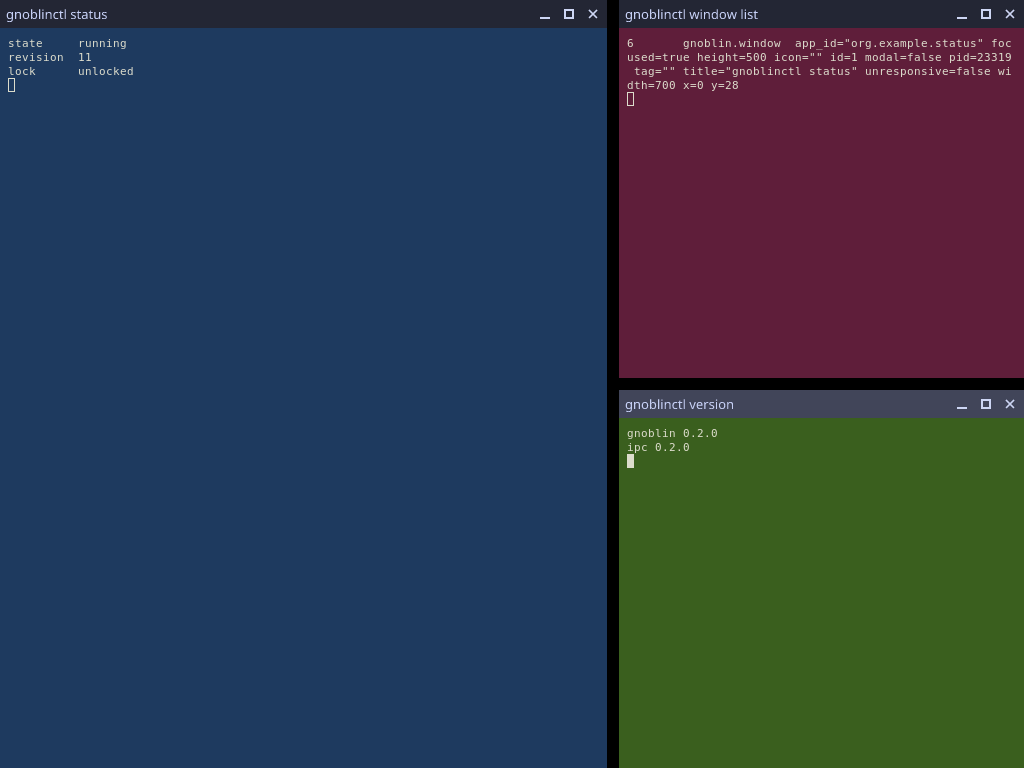
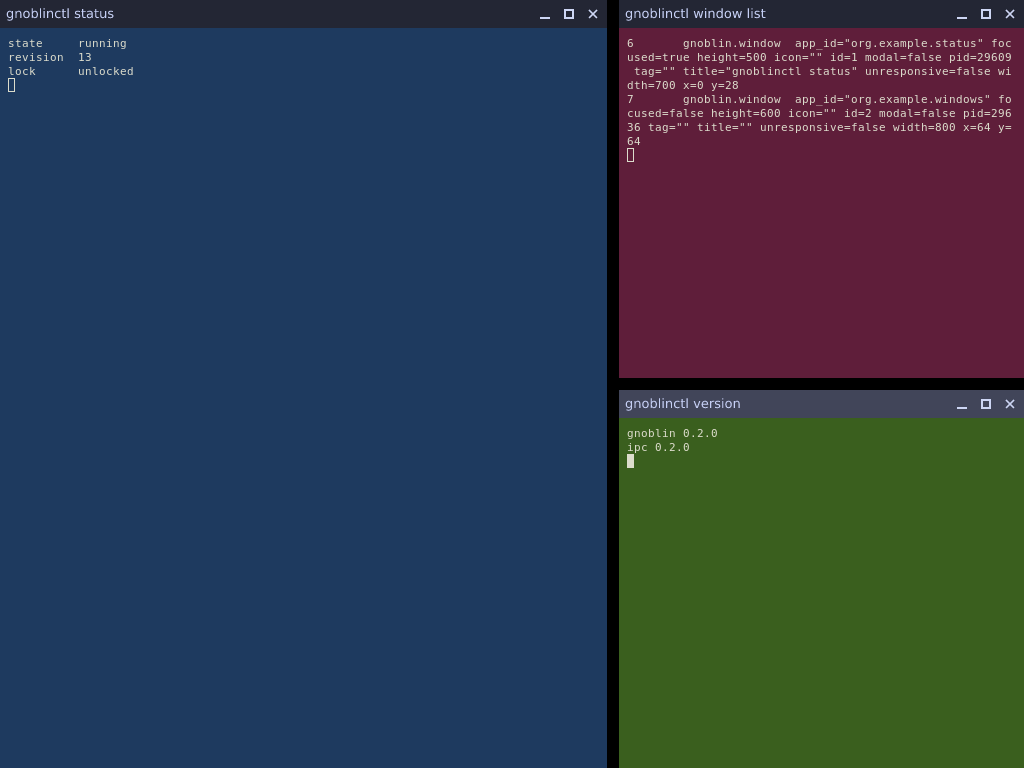
test(live): re-verify the shell on pixels; reload-tiled and transition-mid scenarios; the window-geometry height loss asserted and diagnosed
Fresh docs/images/js-shell pictures from the current tree.

diff --git a/crates/gnoblin/tests/support/mod.rs b/crates/gnoblin/tests/support/mod.rs
@@ -403,6 +403,9 @@ pub struct Mapper {
     /// Whether the windows ask for server-side decorations (`xdg-decoration`) before they first commit, as a GTK or
     /// Qt client that wants the shell's title bar does. A client that does not is one that draws its own.
     server_side: bool,
+    /// The window geometry (`xdg_surface.set_window_geometry`: x, y, width, height in surface coordinates) every window
+    /// sets before its first buffer, as a client that draws a title bar outside its main surface does.
+    geometry: Option<(i32, i32, i32, i32)>,
     seat: Option<wl_seat::WlSeat>,
     /// The protocol objects of every window mapped, kept so they stay mapped.
     windows: Vec<(
@@ -439,6 +442,7 @@ impl Mapper {
             seat: None,
             windows: Vec::new(),
             server_side: false,
+            geometry: None,
             decorations: Vec::new(),
         }
     }
@@ -449,6 +453,14 @@ impl Mapper {
     #[must_use]
     pub fn requesting_server_side(mut self) -> Self {
         self.server_side = true;
+        self
+    }
+
+    /// Makes every window this client maps from now on set the window geometry `(x, y, width, height)` before its first
+    /// buffer, the way foot does with its title bar above the main surface (`(0, -26, 700, 500)` for a 700 by 474 buffer).
+    #[must_use]
+    pub fn with_window_geometry(mut self, geometry: (i32, i32, i32, i32)) -> Self {
+        self.geometry = Some(geometry);
         self
     }
 
@@ -499,6 +511,9 @@ impl Mapper {
         let buffer = pool.create_buffer(0, width, height, stride, wl_shm::Format::Argb8888, &self.qh, ());
         surface.attach(Some(&buffer), 0, 0);
         surface.damage(0, 0, width, height);
+        if let Some((x, y, geometry_width, geometry_height)) = self.geometry {
+            xdg.set_window_geometry(x, y, geometry_width, geometry_height);
+        }
         surface.commit();
         self.roundtrip();
         self.windows.push((surface, xdg, toplevel));

diff --git a/crates/gnoblin/tests/js_shell.rs b/crates/gnoblin/tests/js_shell.rs
@@ -1744,6 +1744,30 @@ fn windows_too_big_for_a_free_spot_cascade_and_never_land_exactly_on_each_other(
     }
 }
 
+/// Live verification: foot draws its title bar in a subsurface above its main surface and says so with a window geometry
+/// of (0, -26, 700, 500) around a 700 by 474 buffer. The window is the geometry, 700 by 500. The tree publishes the
+/// surface's rectangle instead (`publish_geometry` in `compose.rs`: the geometry less its offset, at the buffer's size), 700
+/// by 474; a first run of the shipped binary with the stock bar held such a window at 700 by 448. Run it with `--ignored`.
+#[test]
+#[ignore = "open defect (design/js-runtime.md, Live verification, #4): the tree publishes the buffer size, 700 by 474, not the window geometry"]
+fn a_client_side_decorated_window_is_held_at_its_window_geometry_not_its_buffer_less_its_bar() {
+    let session = Session::start();
+    let config = tempfile::tempdir().expect("a config directory");
+    let shell = Shell::start(&session, config.path(), |_| {});
+    let mut mapper = Mapper::connect(&session.wayland()).with_window_geometry((0, -26, 700, 500));
+    let ipc = session.ipc();
+    mapper.map_window_sized("org.example.csd", "Client drawn bar", 700, 474);
+    wait_for("the window placed", &session, &mut mapper, &shell, || {
+        rect_of(&ipc, "org.example.csd").is_some_and(|(_, _, width, _)| width > 0.0)
+    });
+    let (_, _, width, height) = rect_of(&ipc, "org.example.csd").expect("the window");
+    assert_eq!(
+        (width, height),
+        (700.0, 500.0),
+        "the window is its geometry, the bar included"
+    );
+}
+
 /// An `init.ts` whose workspace tiles by halves side by side and, one second after the shell's clock starts, changes to
 /// rows inside a `requestTransition` of 500 ms. `probe()` says what the script knows: the shell's clock, whether the
 /// transition runs, and the log of its start and finish.

diff --git a/design/js-runtime.md b/design/js-runtime.md
@@ -1761,7 +1761,8 @@ Each scenario boots its own session over a fresh directory, so one can be run al
 | `master-stack`, `dwindle`                     | three windows, then a reload to the owner's `defineConfig` (no `decorations` key)         |
 | `master-stack-decorated`, `dwindle-decorated` | the same with `decorations: true`                                                         |
 | `shadows-software`, `shadows-gles`            | `style.shadows` on each renderer (the renderer is read at start, so the session restarts) |
-| `csd-double`, `csd-own`, `csd-tiled`          | foot as it comes: the shell's one bar; with decorations off, foot's own one bar           |
+| `csd-double`, `csd-own`, `csd-tiled`          | foot as it comes: the shell's one bar; with decorations off, foot's own bar (off screen)  |
+| `reload-tiled`, `transition-mid`              | a reload of three tiled windows (before and after compared); a frame mid-transition       |
 | `window-menu`                                 | the window menu, opened with `Alt+Space` sent by `wtype`                                  |
 | `lock`                                        | `gnoblinctl lock`, then a capture, which is refused                                       |
 
@@ -1791,15 +1792,15 @@ four that are clean product states and are in `docs/typescript-shell.md`, "What 
 
 ### Defects
 
-| #   | Picture                           | Diagnosis                                                                                                                                                                                                                                                                                                                                                                                                                                                                                                             | State                                                                                                                                                                                                                                                                                                                                             |
-| --- | --------------------------------- | --------------------------------------------------------------------------------------------------------------------------------------------------------------------------------------------------------------------------------------------------------------------------------------------------------------------------------------------------------------------------------------------------------------------------------------------------------------------------------------------------------------------- | ------------------------------------------------------------------------------------------------------------------------------------------------------------------------------------------------------------------------------------------------------------------------------------------------------------------------------------------------- |
-| 1   | `master-stack.png`                | A black column at x = 1023: `tile()` floored each width on its own, so a master of 607.2 and a stack of 404.8 at 619.2 ended at 619 + 404 = 1023. Every tiled layout had it (grid with 3 columns on 1000 px ended at 999; the Lua shell had the same).                                                                                                                                                                                                                                                                | Fixed in `data/js/gnoblin/layout.ts` (`tile` floors edges). Tests: `stock_layouts.rs`, real: `a_master_stack_workspace_with_a_ratio_and_a_gap_fills_the_screen_to_both_edges`. The Lua goldens that pinned the sliver are changed.                                                                                                                |
-| 2   | `cascade.png` (before the fix)    | Three windows of the default size: the second and the third landed at exactly (324, 268). `placeRect` pushes a cascade that found no free spot back inside the area, pinning every later window to the far corner, so the third hid the second.                                                                                                                                                                                                                                                                       | Fixed in `FloatingLayout.onClientAdded` (`apartFrom` steps back by the cascade step). `placeRect` and its golden table are unchanged. Tests: `stock_layouts.rs`, real: `windows_too_big_for_a_free_spot_cascade_and_never_land_exactly_on_each_other`.                                                                                            |
-| 3   | `master-stack.png`, `dwindle.png` | The owner's `defineConfig({ workspaces })` draws no titlebars. `docs/typescript-config.md` says so in its table (`decorations` is "not layered") and contradicts itself two paragraphs above ("A key you leave out keeps its default"). With foot as the client, foot then draws its own title bar, which is outside its window and off screen for the top row.                                                                                                                                                       | Open, by design, owner's call: should `decorations` default to `true` for a config that leaves it out? The doc and the screenshots in `docs/` say what is.                                                                                                                                                                                        |
-| 4   | `csd-double.png`, `csd-tiled.png` | The compositor answers every `xdg-decoration` with client side, so a client that draws a title bar (foot, GTK) has two. Foot's own is hidden under the shell's. Foot reports its window geometry as (0, -26, 700, 500) with a 700 by 474 buffer, and the compositor holds the window as 700 by 448 (500 less 26 twice); in one exploratory capture of three tiled windows the first (foot told 740, drawing 714) left a 26 px black strip below it; `csd-tiled` (one window) does not show it. Not diagnosed further. | Open. Not asserted: `Mapper` has no window geometry. Starting point: `follow_window_geometry` in `crates/gnoblin-wayland/src/state.rs` and the surface offset in `compose.rs`.                                                                                                                                                                    |
-| 5   | `shadows-gles.png`                | The shadow is the window node's, so it is cast by the content and not by the frame: it has nothing at the titlebar's side. The shadow effect has no rectangle of its own to grow.                                                                                                                                                                                                                                                                                                                                     | Open. Needs the effect to take an extent, in the compositor.                                                                                                                                                                                                                                                                                      |
-| 6   | `master-stack.log`                | A reload logged 19 `a seat claim's chord is already bound for that device` and one `a seat gesture claim was refused` at WARN. The new generation claimed each stock key while the old one still held it, so the compositor refused the duplicate, and the old generation's release then freed the chord: after the reload nobody held it and the key did nothing.                                                                                                                                                    | Fixed (lane JsReloadClaims). A staged generation's claims wait for the swap and go out behind the old generation's releases, in one transaction ("Hot reload", "Seat claims across a reload"). Tests: `crates/gnoblin-js/tests/input.rs`, real: `a_reload_hands_every_seat_claim_over_so_each_shortcut_fires_once_and_a_removed_one_is_released`. |
-| 7   | every `.log`                      | The guardian wrapped each INFO line a child prints on stderr as `WARN guardian/raw INFO ...`, so a healthy start was a page of warnings: `is_structured` looked for the bracketed form `INFO  [role] ...`, and the console prints `INFO   role/component  message`.                                                                                                                                                                                                                                                   | Fixed (lane JsReloadClaims) in `crates/gnoblin-session/src/raw.rs`: a line the child formatted itself is passed on with its own level. Tests in the same file.                                                                                                                                                                                    |
+| #   | Picture                           | Diagnosis                                                                                                                                                                                                                                                                                                                                                          | State                                                                                                                                                                                                                                                                                                                                             |
+| --- | --------------------------------- | ------------------------------------------------------------------------------------------------------------------------------------------------------------------------------------------------------------------------------------------------------------------------------------------------------------------------------------------------------------------ | ------------------------------------------------------------------------------------------------------------------------------------------------------------------------------------------------------------------------------------------------------------------------------------------------------------------------------------------------- |
+| 1   | `master-stack.png`                | A black column at x = 1023: `tile()` floored each width on its own, so a master of 607.2 and a stack of 404.8 at 619.2 ended at 619 + 404 = 1023. Every tiled layout had it (grid with 3 columns on 1000 px ended at 999; the Lua shell had the same).                                                                                                             | Fixed in `data/js/gnoblin/layout.ts` (`tile` floors edges). Tests: `stock_layouts.rs`, real: `a_master_stack_workspace_with_a_ratio_and_a_gap_fills_the_screen_to_both_edges`. The Lua goldens that pinned the sliver are changed.                                                                                                                |
+| 2   | `cascade.png` (before the fix)    | Three windows of the default size: the second and the third landed at exactly (324, 268). `placeRect` pushes a cascade that found no free spot back inside the area, pinning every later window to the far corner, so the third hid the second.                                                                                                                    | Fixed in `FloatingLayout.onClientAdded` (`apartFrom` steps back by the cascade step). `placeRect` and its golden table are unchanged. Tests: `stock_layouts.rs`, real: `windows_too_big_for_a_free_spot_cascade_and_never_land_exactly_on_each_other`.                                                                                            |
+| 3   | `master-stack.png`, `dwindle.png` | The owner's `defineConfig({ workspaces })` draws no titlebars. `docs/typescript-config.md` says so in its table (`decorations` is "not layered") and contradicts itself two paragraphs above ("A key you leave out keeps its default"). With foot as the client, foot then draws its own title bar, which is outside its window and off screen for the top row.    | Open, by design, owner's call: should `decorations` default to `true` for a config that leaves it out? The doc and the screenshots in `docs/` say what is.                                                                                                                                                                                        |
+| 4   | `csd-own.png`                     | Double bars are fixed (below). What is left is the window geometry of a client that draws its bar above its main surface: see "The 52 px, diagnosed".                                                                                                                                                                                                              | Open: the compositor's window node must be the geometry. Test ignored until then.                                                                                                                                                                                                                                                                 |
+| 5   | `shadows-gles.png`                | The shadow is the window node's, so it is cast by the content and not by the frame: it has nothing at the titlebar's side. The shadow effect has no rectangle of its own to grow.                                                                                                                                                                                  | Open. Needs the effect to take an extent, in the compositor.                                                                                                                                                                                                                                                                                      |
+| 6   | `master-stack.log`                | A reload logged 19 `a seat claim's chord is already bound for that device` and one `a seat gesture claim was refused` at WARN. The new generation claimed each stock key while the old one still held it, so the compositor refused the duplicate, and the old generation's release then freed the chord: after the reload nobody held it and the key did nothing. | Fixed (lane JsReloadClaims). A staged generation's claims wait for the swap and go out behind the old generation's releases, in one transaction ("Hot reload", "Seat claims across a reload"). Tests: `crates/gnoblin-js/tests/input.rs`, real: `a_reload_hands_every_seat_claim_over_so_each_shortcut_fires_once_and_a_removed_one_is_released`. |
+| 7   | every `.log`                      | The guardian wrapped each INFO line a child prints on stderr as `WARN guardian/raw INFO ...`, so a healthy start was a page of warnings: `is_structured` looked for the bracketed form `INFO  [role] ...`, and the console prints `INFO   role/component  message`.                                                                                                | Fixed (lane JsReloadClaims) in `crates/gnoblin-session/src/raw.rs`: a line the child formatted itself is passed on with its own level. Tests in the same file.                                                                                                                                                                                    |
 
 **Defect 4 (double title bars) is fixed** (lane SsdNegotiation; `docs/js-ui.md`, "Who draws the frame"). The compositor now
 negotiates `xdg-decoration`: a client that asks for server-side is told so only while a shell that holds the tree has
@@ -1810,9 +1811,47 @@ mounts a `Titlebar`, and `frameInset` reserves room, only on a `server` window. 
 windows when the declaration changes. Proven by scene and protocol tests: `crates/gnoblin-wayland/tests/decoration.rs`
 (a real `xdg-decoration` client: no shell, shell without declaration, declared, client-side ask, no preference, no
 manager, decorations off and on, shell connection drop), `crates/gnoblin/tests/js_shell.rs` (a client that draws its own bar
-gets none, a reload toggling decorations) and `crates/gnoblin-js/tests/stock_ui.rs`. Not re-taken on pixels: the
-`csd-double` and `csd-own` scenarios of `scripts/js-shell-screenshots.sh` were updated but not run for this change, and
-the 52 px height loss of the foot window (the surface geometry offset, see the table) was not re-measured.
+gets none, a reload toggling decorations) and `crates/gnoblin-js/tests/stock_ui.rs`. It is re-taken on pixels below.
+
+### Re-verified on pixels (second run)
+
+The release binary of the tree at `origin/rust-compositor` after SsdNegotiation, the reload claim hand-off, the console
+global, tiling bindings, transitions, outputs and the idle fixes, on an Agent37 instance, every scenario of
+`scripts/js-shell-screenshots.sh` (pictures in `/home/kieran/dev/lanes/JsLiveVerify-shots/`, four in `docs/images/js-shell/`):
+
+- `one-window`, `csd-double`, `csd-tiled`: foot as it comes asks for server-side and gets exactly one bar, the shell's
+  (28 px, above the content). `csd-tiled` (decorations and a dwindle workspace) fills the screen under one bar.
+- `master-stack-decorated`, `dwindle-decorated`: one bar above each tile, 12 px gaps, edge to edge (the 1 px column of
+  defect 1 stays fixed). `cascade`: the third window no longer hides the second (defect 2 stays fixed).
+- `csd-own` (foot, `decorations: false`): **no bar is visible.** Foot draws its own, but its bar is a subsurface above its
+  main surface and the window sits at y = 0, so the bar is off screen, and the window is 448 high, not 500. That is the
+  height loss of defect 4's first run, still there: see below.
+- `reload-tiled`: three tiled windows before and after `gnoblinctl config reload` are byte-identical PNGs.
+- `transition-mid`: a `requestTransition` moving a window 600 px right over 6 s, captured 2 s in, shows the window at
+  x = 212 (linear: 200), and `transition-end` shows it at 600. The script catches the middle frame by a long duration on
+  the real clock; the injected clock is not reachable from a shipped session.
+- `window-menu`: as before, opened with `Alt+Space`. Not run: the `Super`+drag swap and the titlebar right click, because a
+  shipped session has no pointer injection (the EIS socket is shut until a remote desktop session is approved and no
+  virtual pointer is offered); both are proved in `crates/gnoblin/tests/js_shell.rs`.
+- `lock`: still refused (`failed to copy output HEADLESS-1`). The lock card cannot be read back on pixels from this tree:
+  `ControlHandle::screenshot` reads the frame while locked (`crates/gnoblin-wayland/tests/session_lock.rs` does), but the
+  card is drawn by the compositor crate's `LockCardService`, whose test `Session` runs `Compositor::run` and does not hand
+  out the control handle. A test would need that handle exposed; the card's colours are therefore unproven.
+
+### The 52 px, diagnosed (not yet fixed)
+
+A client that draws its bar in a subsurface above its main surface (foot: `set_window_geometry(0, -26, 700, 500)`, a 700 by
+474 buffer) has two rectangles, and the tree only knows one. `publish_geometry` (`crates/gnoblin-backend/src/render/compose.rs`)
+publishes the window node's `width` and `height` as the **buffer** size, 700 by 474, and the node's position is the main
+surface's origin. The shell writes a window's `width` and `height` back, and the compositor sends them as the
+`xdg_toplevel.configure` size, which is a **window geometry** size: 474 asked of foot gives a 448 buffer, with its 26 px bar
+inside the 474. Each round trip loses the bar's height, and a window placed at y = 0 has its bar at y = -26. Asserted from the
+scene by `a_client_side_decorated_window_is_held_at_its_window_geometry_not_its_buffer_less_its_bar` in
+`crates/gnoblin/tests/js_shell.rs` (a `Mapper` that sets `set_window_geometry`): it reads 700 by 474 where the geometry is 700
+by 500, and is `#[ignore]`d until the fix. The fix is in the compositor, not the shell: the window node must be the
+geometry (publish its size, and draw the surface at the node's origin less the geometry's offset when a shell places it, as
+`target()` already does when none does), which touches the render and the tree publish paths and their tests, and was not
+done in this run.
 
 ## Questions for the owner (the agent has a default for each)
 

diff --git a/CHANGELOG.md b/CHANGELOG.md
@@ -4,6 +4,7 @@
 
 ### Added
 
+- Live pictures re-taken on the current tree (lane JsLiveVerify; design/js-runtime.md, "Re-verified on pixels"). `scripts/js-shell-screenshots.sh` gains `reload-tiled` (the pictures before and after a reload of three tiled windows are compared byte for byte) and `transition-mid` (a frame in the middle of a `requestTransition`). The unexplained 52 px height loss of a window whose client draws its bar above its main surface is diagnosed: the tree publishes the buffer size, and the configure size is a window geometry size. A real-compositor test asserts it (`a_client_side_decorated_window_is_held_at_its_window_geometry_not_its_buffer_less_its_bar`, ignored until the fix; `Mapper::with_window_geometry` is its client). The pictures in `docs/images/js-shell/` are re-taken.
 - A `console` global in the JavaScript shell, and declarations that match the runtime (lane JsConsoleGlobal; design/js-runtime.md, "Console global status"; docs/typescript-shell.md, "Debugging"; docs/js-console.md). `console.log`, `info`, `warn`, `error`, `debug`, `assert` and `table` exist in every generation, format like Node (`%s %d %i %f %j %o %O %c %%`, JSON for objects with a `[Circular]` marker, errors with their stack) and write to the log (component `js`, area `script`) with the call site as `file.ts:line:col` in the author's `.ts` coordinates; a call is cut at 4 KiB and a generation logs at most 200 lines a second. `gnoblinctl console` prints what an expression printed before its value (the reply's new `output` list). `gnoblin-js`'s `dts_match` test now compares every value export of the d.ts's `gnoblin` module with the runtime module's exports, and stale declarations (`Easing`, a second `Transition`) are gone.
 - No more double title bars: the compositor negotiates `xdg-decoration` (lane SsdNegotiation; design/js-runtime.md, "Live verification", defect 4; docs/js-ui.md, "Who draws the frame"). A client that asks for server-side decorations is told server-side only while a shell that holds the tree has declared that it draws them (the main seat's new shell-written `decorations_available`); with no shell, or decorations off, every client is told client-side, so a window is never left undecorated and unmovable. The window node publishes `decoration` (`client`, `server` or `none`, the answer) and `decoration_wanted` (`client`, `server` or `unset`, the ask), as `Client.decoration` and `Client.decorationWanted` with `ClientListener.onDecorationChanged`. A Wayland client that never binds the manager is `client`; an X11 window is `server` while the shell declares decorations and `none` otherwise. The answer is sent again to every window when the declaration changes, and the compositor clears it when the shell's connection drops. The stock `Decorations` mounts a `Titlebar` (and `frameInset` reserves room) only on a `server` window, and declares `decorations_available` when decorations are on and clears it when the generation retires. Tests: `crates/gnoblin-wayland/tests/decoration.rs` (a real `xdg-decoration` client), `crates/gnoblin/tests/js_shell.rs` (`Mapper::requesting_server_side`), `crates/gnoblin-js/tests/stock_ui.rs`.
 - Tiling layouts drag with the pointer in the JavaScript shell (lane JsTilingBindings; design/js-runtime.md, "Tiling bindings status"; `docs/shell-api/input-handlers.md`, "Tiling drags"). `ClientSwapBinding` (`Super+MouseLeft+Drag`) trades two tiles' places on release, and `SplitResizeBinding` (`Super+MouseRight+Drag`) moves the divider nearest the press live and puts it back on cancel. `MasterStackLayout` and `DwindleLayout` register both, `GridLayout` registers the swap, and each takes `triggers` (`null` leaves one out). `Workspace.clients.swap(a, b)` trades two clients' places, a layout may define `onClientsSwapped(a, b)` and `findSplit(client, point)`, and a `DwindleLayout` split a drag moved keeps a ratio of its own. Tests over the fake link and against the real compositor.
